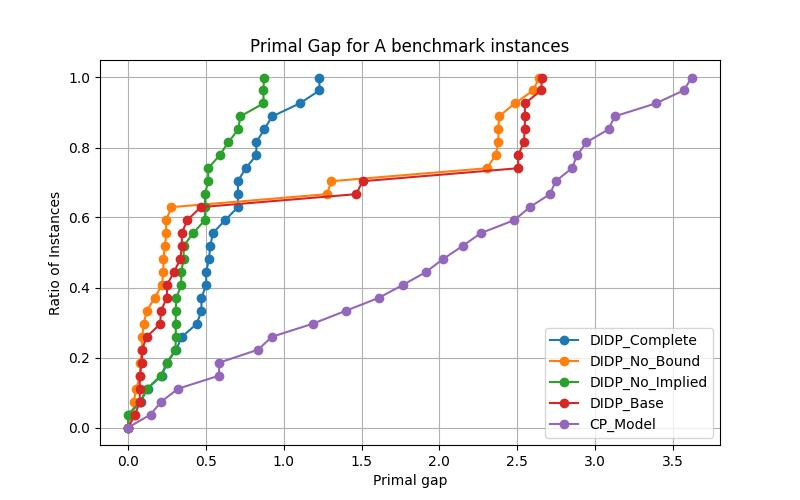
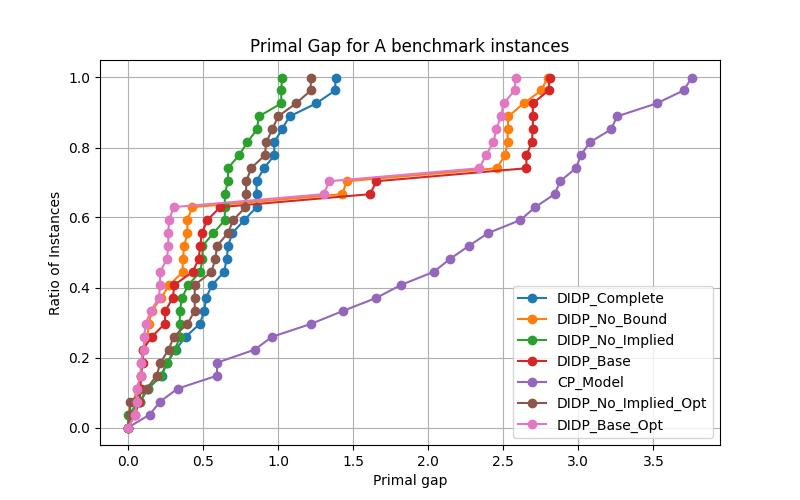
new plots

diff --git a/mmcvrp/VrpSets/plot_results.py b/mmcvrp/VrpSets/plot_results.py
@@ -9,7 +9,9 @@ methods = ["DIDP_Complete",
            "DIDP_No_Bound",
            "DIDP_No_Implied",
            "DIDP_Base",
-           "CP_Model"]
+           "CP_Model",
+           "DIDP_No_Implied_Opt",
+           "DIDP_Base_Opt"]
 
 results = ["A", "M", "Golden"]
                 
